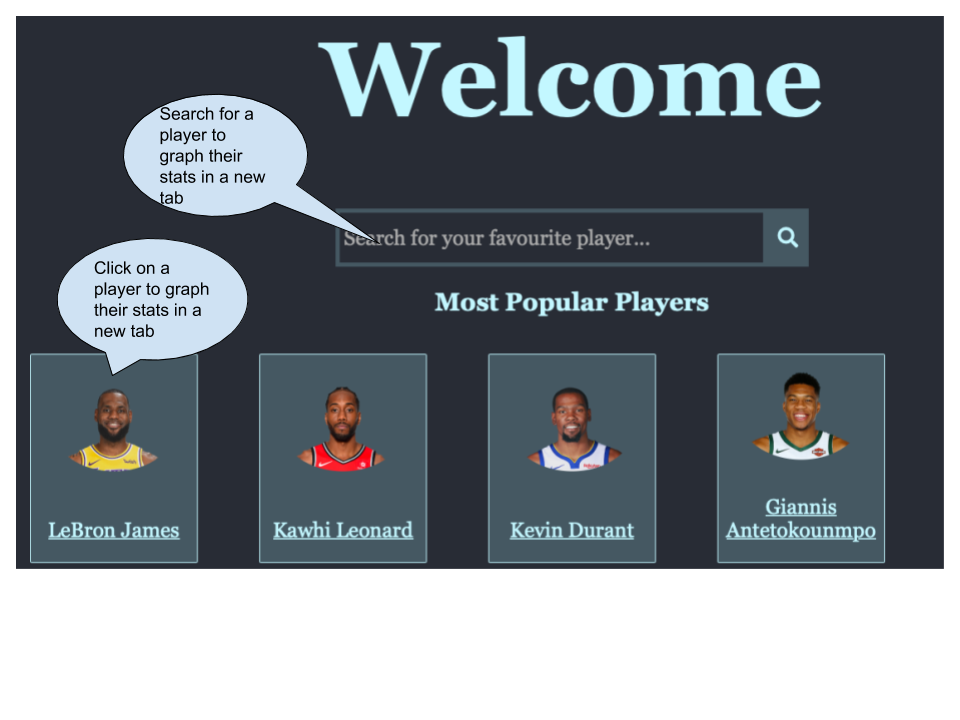
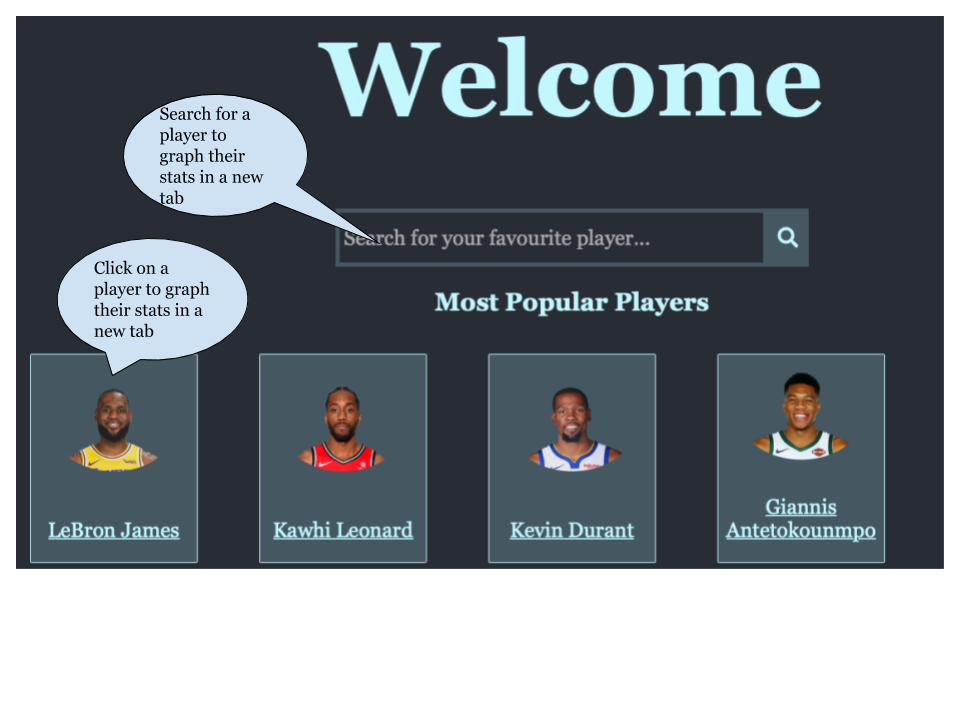
Added proper font and abbreviations to help

Changed region(s): [[0.1562, 0.1528, 0.2812, 0.275], [0.0938, 0.3667, 0.2188, 0.4889]]

diff --git a/Help/Help.html b/Help/Help.html
@@ -90,7 +90,7 @@
                 <div class= "box">
                     <img class="Pics" src="Pictures/Pic2.png" alt="HelpPic1" >
                     
-                    <img class="Pics" src="Pictures/Pic1.png" alt="HelpPic1" >
+                    <img class="Pics" src="Pictures/Pic_1.png" alt="HelpPic1" >
                 </div>
                 
                 <br>
